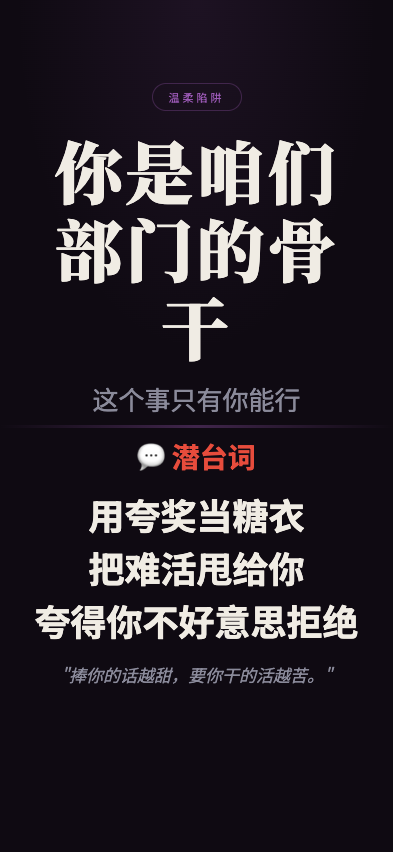
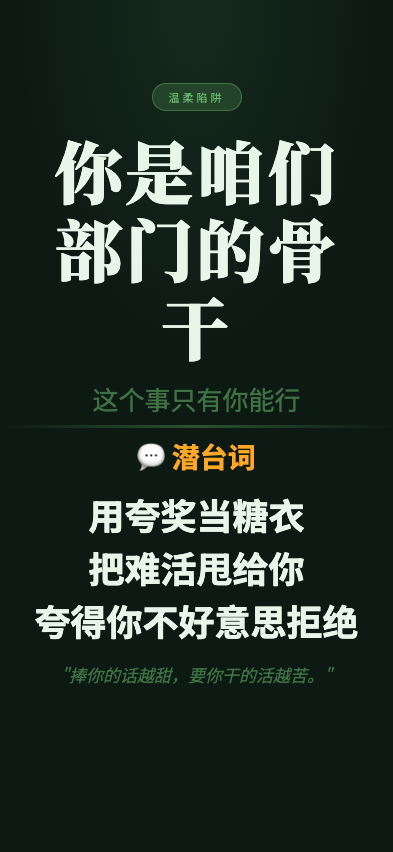
feat: 职场生存法则 screenshot - nishizanmenbumendegugan

diff --git a/wuliao-tools/tools/biz-speak/scenes/nishizanmenbumendegugan.html b/wuliao-tools/tools/biz-speak/scenes/nishizanmenbumendegugan.html
@@ -7,11 +7,14 @@
 <link href="https://fonts.googleapis.com/css2?family=Noto+Serif+SC:wght@400;700;900&family=Noto+Sans+SC:wght@300;400;700&display=swap" rel="stylesheet">
 <style>
   :root {
-    --bg: #0f0a12;
-    --text: #f0ece4;
-    --text-dim: #8a8a9a;
-    --gold: #9b59b6;
-    --red: #e74c3c;
+    --bg: #0d1a14;
+    --text: #e8f5e9;
+    --text-dim: rgba(102,187,106,0.55);
+    --gold: #66bb6a;
+    --red: #ffa726;
+    --tag-bg: rgba(102,187,106,0.2);
+    --tag-border: rgba(102,187,106,0.4);
+    --tag-text: #66bb6a;
   }
   * { margin:0; padding:0; box-sizing:border-box; }
   html, body { width:100%; height:100%; overflow:hidden; }
@@ -24,11 +27,11 @@
   }
   body::before {
     content:''; position:absolute; top:0; left:0; right:0; height:45%;
-    background:radial-gradient(ellipse at 50% 0%, rgba(155,89,182,0.1) 0%, transparent 65%);
+    background:radial-gradient(ellipse at 50% 0%, rgba(102,187,106,0.1) 0%, transparent 65%);
     pointer-events:none; z-index:0;
   }
   .top { flex:1; display:flex; flex-direction:column; align-items:center; justify-content:flex-end; padding:4px 28px 8px; position:relative; z-index:1; }
-  .tag { font-size:11px; letter-spacing:3px; color:var(--gold); border:1px solid rgba(155,89,182,0.3); padding:5px 16px; border-radius:50px; margin-bottom:20px; }
+  .tag { font-size:11px; letter-spacing:3px; color:var(--tag-text); background:var(--tag-bg); border:1px solid var(--tag-border); padding:5px 16px; border-radius:50px; margin-bottom:20px; }
   .main-title { font-family:'Noto Serif SC'; font-size:68px; font-weight:900; text-align:center; line-height:1.15; letter-spacing:3px; min-width:0; overflow-wrap:break-word; max-width:92%; }
   .sub-title { font-size:26px; color:var(--text-dim); text-align:center; margin-top:14px; }
   .divider { width:100%; height:3px; background:linear-gradient(90deg,transparent,var(--gold),transparent); opacity:0.35; flex-shrink:0; position:relative; z-index:1; }
@@ -49,9 +52,7 @@
   <div class="bottom">
     <div class="truth-label">💬 潜台词</div>
     <div class="truth-lines">
-      <div class="truth-line">用夸奖当糖衣</div>
-      <div class="truth-line">把难活甩给你</div>
-      <div class="truth-line">夸得你不好意思拒绝</div>
+      <div class="truth-line">用夸奖当糖衣</div><div class="truth-line">把难活甩给你</div><div class="truth-line">夸得你不好意思拒绝</div>
     </div>
     <div class="quote">"捧你的话越甜，要你干的活越苦。"</div>
   </div>
